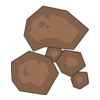
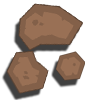
Bugfixes. Map is twice as big. Asteroids give cover

diff --git a/application/libraries/Mapdrawer.php b/application/libraries/Mapdrawer.php
@@ -6,7 +6,7 @@ class Mapdrawer {
 	private $ships = array();
 	private $asteroids = array();
 	private $size = 100;
-	private $mapSize = 6;
+	private $mapSize = MAP_SIZE;
 	private $shipscount = array();
 
 	public function __construct() {
@@ -107,47 +107,61 @@ class Mapdrawer {
 
 		$this->markForbidden($base, $mainShip);
 
-		$asteroids = imagecreatefrompng(APPPATH."../imgs/map/asteroids_1_1.png");
-		imagecopyresampled($base, $asteroids, $this->translate($mainShip->x, 3) * $this->size, $this->remapY($this->translate($mainShip->y, 3)) * $this->size, 0, 0, $this->size, $this->size, $this->size, $this->size);
-		imagedestroy($asteroids);
-
 		if ($isScan) $this->addRadar($base, $mainShip);
 
 		$this->CI->load->model('Ships');
 		$ships = $this->CI->Ships->get_target_lock_candidates($mainShip);
+
+		$this->CI->load->model('Asteroids');
+		$asteroids = $this->CI->Asteroids->get_asteroids_nearby($mainShip, 1);
 		
 		$target = null;
 		if (is_array($ships)) {
 			foreach ($ships as $ship) {
-				if ($ship->id != $mainShip->id) $this->addShip($base, $mainShip, $ship);
+				if ($ship->id != $mainShip->id) {
+					// Oculta naves dentro de campos de asteroides, salvo si son objetivos
+					if (!$this->_coordinatesInSet($ship->x, $ship->y, $asteroids) || $ship->id == $mainShip->target) {
+						$this->addShip($base, $mainShip, $ship);
+					}
+				}
 				if ($ship->id == $mainShip->target) $target = $ship;
 			}
 		}
 
+		$this->addShip($base, $mainShip, $mainShip);
+
+		$this->addAsteroids($base, $mainShip, $asteroids);
+
 		if ($mainShip->target != null) {
 			if ($target != null) {
-				$target_symbol = imagecreatefrompng(APPPATH."../imgs/map/target.png");
-				imagecopyresampled($base, $target_symbol, $this->translate($mainShip->x, $target->x) * $this->size, $this->remapY($this->translate($mainShip->y, $target->y)) * $this->size, 0, 0, $this->size, $this->size, $this->size, $this->size);
-				imagedestroy($target_symbol);
+				$this->addTargetMarker($base, $mainShip, $target->x, $target->y);
 			} else {
 				$target = $this->CI->Ships->get($mainShip->target);
-				if (!empty($target)) $base = $this->addTargetIndicator($base, $mainShip, $target);
+				if (!empty($target)) $this->addTargetIndicator($base, $mainShip, $target);
 			}			
 		}
 
-		$this->addShip($base, $mainShip, $mainShip);
+		// Draw target markers
+		if ($mainShip->target != null) {
+			if ($target != null) {
+				$this->addTargetMarker($base, $mainShip, $target->x, $target->y);
+			} else {
+				$target = $this->CI->Ships->get($mainShip->target);
+				if (!empty($target)) $this->addTargetIndicator($base, $mainShip, $target);
+			}			
+		}
 
 		$this->addCounts($base, $mainShip);
 
-		if (FALSE) {
+		if (TRUE) {
 			header('Content-Type: image/png');
 			imagepng($base);
 			imagedestroy($base);
 		} else {
 			$timestamp = date('Ymdhis');
-			imagepng($base, APPPATH.'../imgs/map/scans/'.$timestamp.'.png');
+			imagepng($base, APPPATH.'../imgs/map/scans/'.$timestamp.'_'.$mainShip->id.'.png');
 			imagedestroy($base);
-			return APPPATH.'../imgs/map/scans/'.$timestamp.'.png';
+			return APPPATH.'../imgs/map/scans/'.$timestamp.'_'.$mainShip->id.'.png';
 		}
 	}
 
@@ -254,6 +268,12 @@ class Mapdrawer {
 		return $base;
 	}
 
+	private function addTargetMarker(&$base, $mainShip, $x, $y) {
+		$target_symbol = imagecreatefrompng(APPPATH."../imgs/map/target.png");
+		imagecopyresampled($base, $target_symbol, $this->translate($mainShip->x, $x) * $this->size, $this->remapY($this->translate($mainShip->y, $y)) * $this->size, 0, 0, $this->size, $this->size, $this->size, $this->size);
+		imagedestroy($target_symbol);
+	}
+
 	private function addCounts(&$base, $mainShip) {
 		foreach ($this->shipscount as $key => $value) {
 			if ($value > 1) {
@@ -274,6 +294,35 @@ class Mapdrawer {
 
 		imagecopyresampled($base, $radar, 0, 0, 0, 0, 300, 300, 300, 300);
 		imagedestroy($radar);
+	}
+
+	private function addAsteroids(&$base, $mainShip, $asteroids) {
+		if (!is_array($asteroids)) return false;
+
+		$asteroid = imagecreatefrompng(APPPATH."../imgs/map/asteroids_1_1.png");
+
+		$target = null;
+		if ($mainShip->target != null) {
+			$target = $this->CI->Ships->get($mainShip->target);	
+		}
+
+		foreach ($asteroids as $astr) {
+			imagecopyresampled($base, $asteroid, $this->translate($mainShip->x, $astr->x) * $this->size, $this->remapY($this->translate($mainShip->y, $astr->y)) * $this->size, 0, 0, $this->size, $this->size, $this->size, $this->size);
+			if ($target != null && $astr->x == $target->x && $astr->y == $target->y) {
+				$this->addTargetMarker($base, $mainShip, $target->x, $target->y);
+			}
+		}
+		
+		imagedestroy($asteroid);
+	}
+
+	private function _coordinatesInSet($x, $y, $set) {
+		if (!is_array($set)) return false;
+		$flag = false;
+		foreach ($set as $value) {
+			$flag = $flag || ($value->x == $x && $value->y == $y);
+		}
+		return $flag;
 	}
 
 }

diff --git a/application/libraries/Commander.php b/application/libraries/Commander.php
@@ -17,12 +17,14 @@ class Commander {
 	public function __construct() {
 		$this->CI =& get_instance();
 
-		$this->CI->load->model('Ships');
-		$this->CI->load->model('Users');
-		$this->CI->load->model('Crew');
-		$this->CI->load->model('Actions');
-		$this->CI->load->model('Votes');
-
+		$this->CI->load->model(array(
+							'Ships',
+							'Users',
+							'Crew',
+							'Actions',
+							'Votes',
+							'Asteroids'));
+		$this->CI->load->library('Calculations');
 		$this->CI->config->load('bot');
 		$this->CI->config->load('images');
 		$this->botToken = $this->CI->config->item('botToken');
@@ -445,6 +447,11 @@ class Commander {
 		$ship = $this->CI->Ships->get_ship_by_chat_id($chat_id);
 
 		$sectorShips = $this->CI->Ships->get_target_lock_candidates($ship);
+
+		if ($this->CI->calculations->scanFailsOnAsteroids()) {
+			$sectorShips = $this->CI->Asteroids->hide_ships_in_asteroids($ship, 1, $sectorShips);
+		}
+
 		$nearShips = array();
 
 		if (is_array($sectorShips)) {
@@ -649,7 +656,6 @@ class Commander {
 		$content = array('chat_id' => $chat_id, 'photo' => $img, 'caption' => $caption );
 		$output = $this->CI->telegram->sendPhoto($content);
 
-		$this->CI->load->library('Calculations');
 		$target_ship = $this->CI->Ships->get($ship->target);
 		if ($ship->target != null && $this->CI->calculations->attack_success($ship, $target_ship)) {
 			$target_ship = $this->CI->Ships->deal_damage($target_ship, $last_action->required);
@@ -668,6 +674,7 @@ class Commander {
 
 				//calcular ranking
 				$score = 500 + intval(($target_ship->score - $ship->score)/5);
+				if ($score < 50) $score = 50;
 				$this->CI->Ships->update_ship(array('score' => $ship->score + $score), $ship->id);
 				$playerScore = $target_ship->score - 1000;
 				$pilot = $this->CI->Users->get_user($target_ship->captain);
@@ -680,7 +687,7 @@ class Commander {
 					"\n\nHemos obtenido +".$score." puntos!";
 
 
-			 	$target_text = "\xF0\x9F\x94\xA5 ATENCIÓN! La ".$ship->name.' de '.$this->CI->Users->get_name_by_id($ship->captain).' nos acaba de destruir con su ataque!!';
+			 	$target_text = "\xF0\x9F\x92\x80 ATENCIÓN! La ".$ship->name.' de '.$this->CI->Users->get_name_by_id($ship->captain).' nos acaba de destruir con su ataque!!';
 				$target_text .= "\nEstado de la nave:".
 					"\n\xE2\x9D\xA4: ".$target_ship->health."/".$target_ship->max_health.
 					"\n\xF0\x9F\x94\xB5: ".$target_ship->shield."/".$target_ship->max_shield.

diff --git a/application/libraries/Calculations.php b/application/libraries/Calculations.php
@@ -8,7 +8,7 @@
 class Calculations {
 
 	private $CI = null;
-	private $baseAgility = 45;
+	private $baseAgility = 55;
 	private $agilityMultiplier = 5;
 	private $healthCrewIncrement = 5;
 
@@ -21,8 +21,11 @@ class Calculations {
 	 * - The ship calculations methods will require the Ship model entitiy and not its id.
 	 */
 
-	private function _chance($chance) {
+	private function _chance($chance, $min=0, $max=100) {
 		$rand = rand(0, 100);
+		if ($chance < $min) $chance = $min;
+		if ($chance > $max) $chance = $max;
+		log_message('error', '($rand'.$rand.' <= $chance'.$chance.')');
 		return ($rand <= $chance);
 	}
 
@@ -30,9 +33,20 @@ class Calculations {
 	public function attack_success($attackerShip, $defenderShip) {
 		if (empty($attackerShip)) return false;
 		if (empty($defenderShip)) return false;
-		$diffCrew = $attackerShip->total_crew - $defenderShip->total_crew;
+		$diffCrew = $defenderShip->total_crew - $attackerShip->total_crew;
 
-		return (! $this->_chance($this->baseAgility + ($diffCrew * $this->agilityMultiplier)));
+		$chance = $this->baseAgility + ($diffCrew * $this->agilityMultiplier);
+
+		$this->CI->load->model('Asteroids');
+		if ($this->CI->Asteroids->ship_is_in_asteroid($attackerShip)) {
+			$chance -= 60;
+		}
+
+		if ($this->CI->Asteroids->ship_is_in_asteroid($defenderShip)) {
+			$chance -= 40;
+		}
+
+		return $this->_chance($chance, 5, 95);
 	}
 
 
@@ -98,9 +112,12 @@ class Calculations {
 	public function ship_dodge($mainShip) {
 		if (empty($mainShip)) return false;
 
-		$targetedBy = 1;
+		$dodge = 50;
 
-		return (! $this->_chance(50));
+		$this->CI->load->model(array('Ships'));
+		$targetedBy = $this->CI->Ships->where(array('target' => $mainShip->id))->count();
+
+		return (! $this->_chance((50 - $targetedBy*10), 5, 50));
 	}
 
 
@@ -137,6 +154,24 @@ class Calculations {
 	public function ship_dodge_vs_other( $ship, $other, $other_type ) {}
 
 
+	public function coordinatesInArray($x, $y, $set) {
+		if (!is_array($set)) return false;
+		$flag = false;
+		foreach ($set as $value) {
+			$flag = $flag || ($value->x == $x && $value->y == $y);
+		}
+		return $flag;
+	}
+
+	public function scanFailsOnAsteroids() {
+		return $this->_chance(85);
+	}
+
+	public function moveAsteroid($hoursPast) {
+		$base = 100;
+
+		return $this->_chance($base + ($base * $hoursPast));
+	}
 
 }
 

diff --git a/application/libraries/Processor.php b/application/libraries/Processor.php
@@ -124,10 +124,14 @@ class Processor {
 			$keyboard = $this->CI->telegram->buildKeyBoardHide($selective=TRUE);
 			$content = array(
 				'chat_id' => $chatId, 
-				'reply_markup' => $keyboard, 
 				'reply_to_message_id' => $messageId, 
 				'text' => '@'.$username.' el mensaje al que respondes ha caducado'
 			);
+
+			if ($ship->captain != $user_id) { // No ocultes teclados del capitán
+				$content['reply_markup'] = $keyboard;
+			}
+
 			return $this->CI->telegram->sendMessage($content);
 
 		}
@@ -138,10 +142,14 @@ class Processor {
 			$keyboard = $this->CI->telegram->buildKeyBoardHide($selective=TRUE);
 			$content = array(
 				'chat_id' => $chatId, 
-				'reply_markup' => $keyboard, 
 				'reply_to_message_id' => $messageId, 
 				'text' => '@'.$username.' tu voto no se ha tenido en cuenta. Ya has votado o ha fallado.'
 			);
+
+			if ($ship->captain != $user_id) { // No ocultes teclados del capitán
+				$content['reply_markup'] = $keyboard;
+			}
+
 			return $this->CI->telegram->sendMessage($content);
 
 		}

diff --git a/application/config/constants.php b/application/config/constants.php
@@ -83,3 +83,8 @@ define('EXIT_USER_INPUT', 7); // invalid user input
 define('EXIT_DATABASE', 8); // database error
 define('EXIT__AUTO_MIN', 9); // lowest automatically-assigned error code
 define('EXIT__AUTO_MAX', 125); // highest automatically-assigned error code
+
+
+// GAME CONSTANTS //
+
+define('MAP_SIZE', 11);

diff --git a/application/config/migration.php b/application/config/migration.php
@@ -69,7 +69,7 @@ $config['migration_auto_latest'] = TRUE;
 | be upgraded / downgraded to.
 |
 */
-$config['migration_version'] = 10;
+$config['migration_version'] = 11;
 
 /*
 |--------------------------------------------------------------------------

diff --git a/application/libraries/Movement.php b/application/libraries/Movement.php
@@ -9,7 +9,7 @@ class Movement {
 
 	private $CI = null;
 
-	private $mapSize = 6;
+	private $mapSize = MAP_SIZE;
 
 	/**
 	 * Defines the available movements for each angle of rotation
